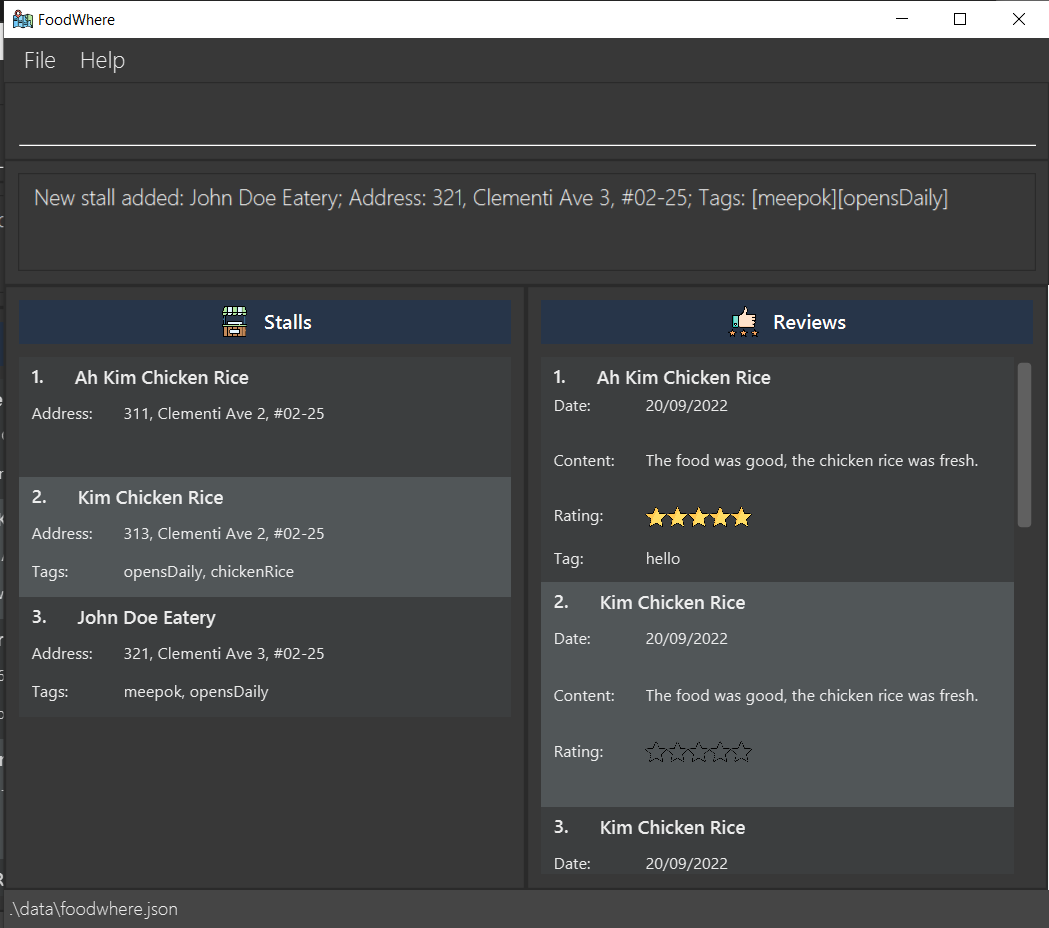
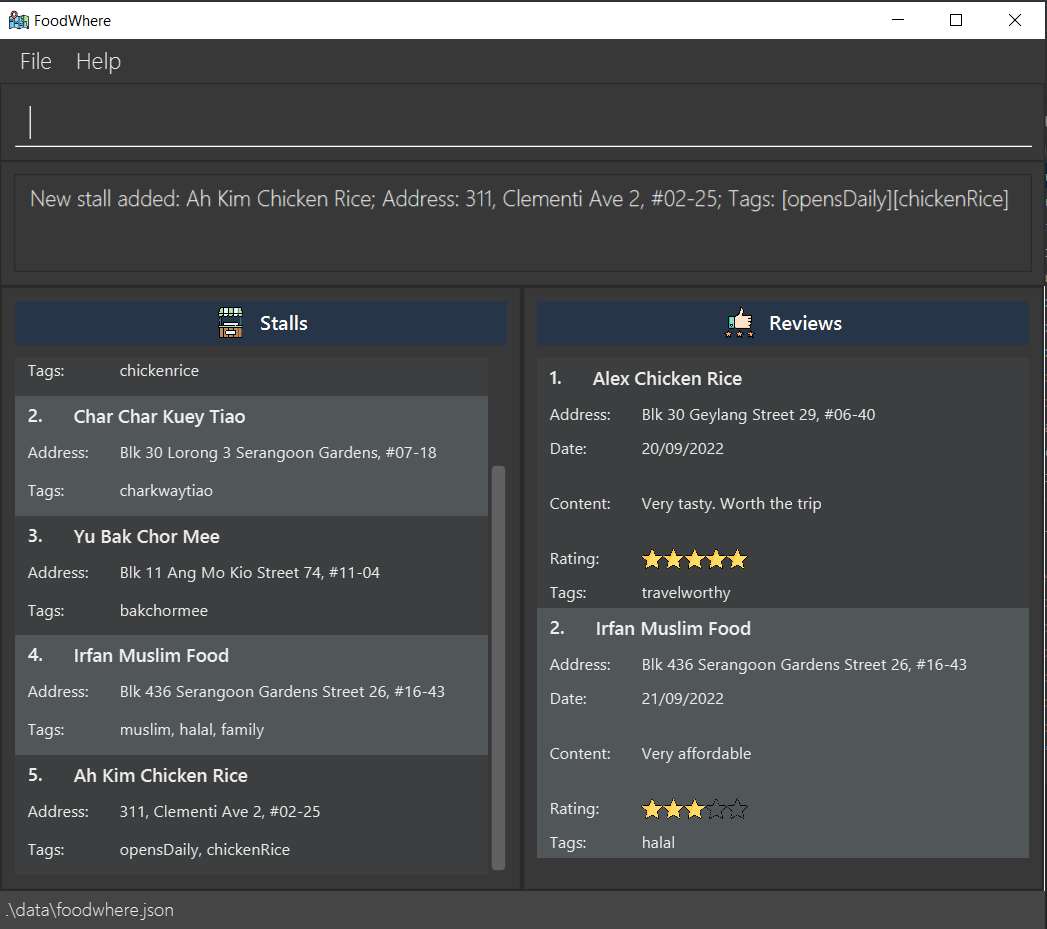
Modify ReviewListCard and update UI image

diff --git a/src/main/java/foodwhere/ui/ReviewCard.java b/src/main/java/foodwhere/ui/ReviewCard.java
@@ -76,7 +76,7 @@ public class ReviewCard extends UiPart<Region> {
                     .collect(Collectors.joining(", "));
 
             tags.setText(assigneesNames);
-            tagsLabel.setText("Tag:");
+            tagsLabel.setText("Tags:");
         } else {
             removeRow(gridPane, GridPane.getRowIndex(tagsLabel));
         }
